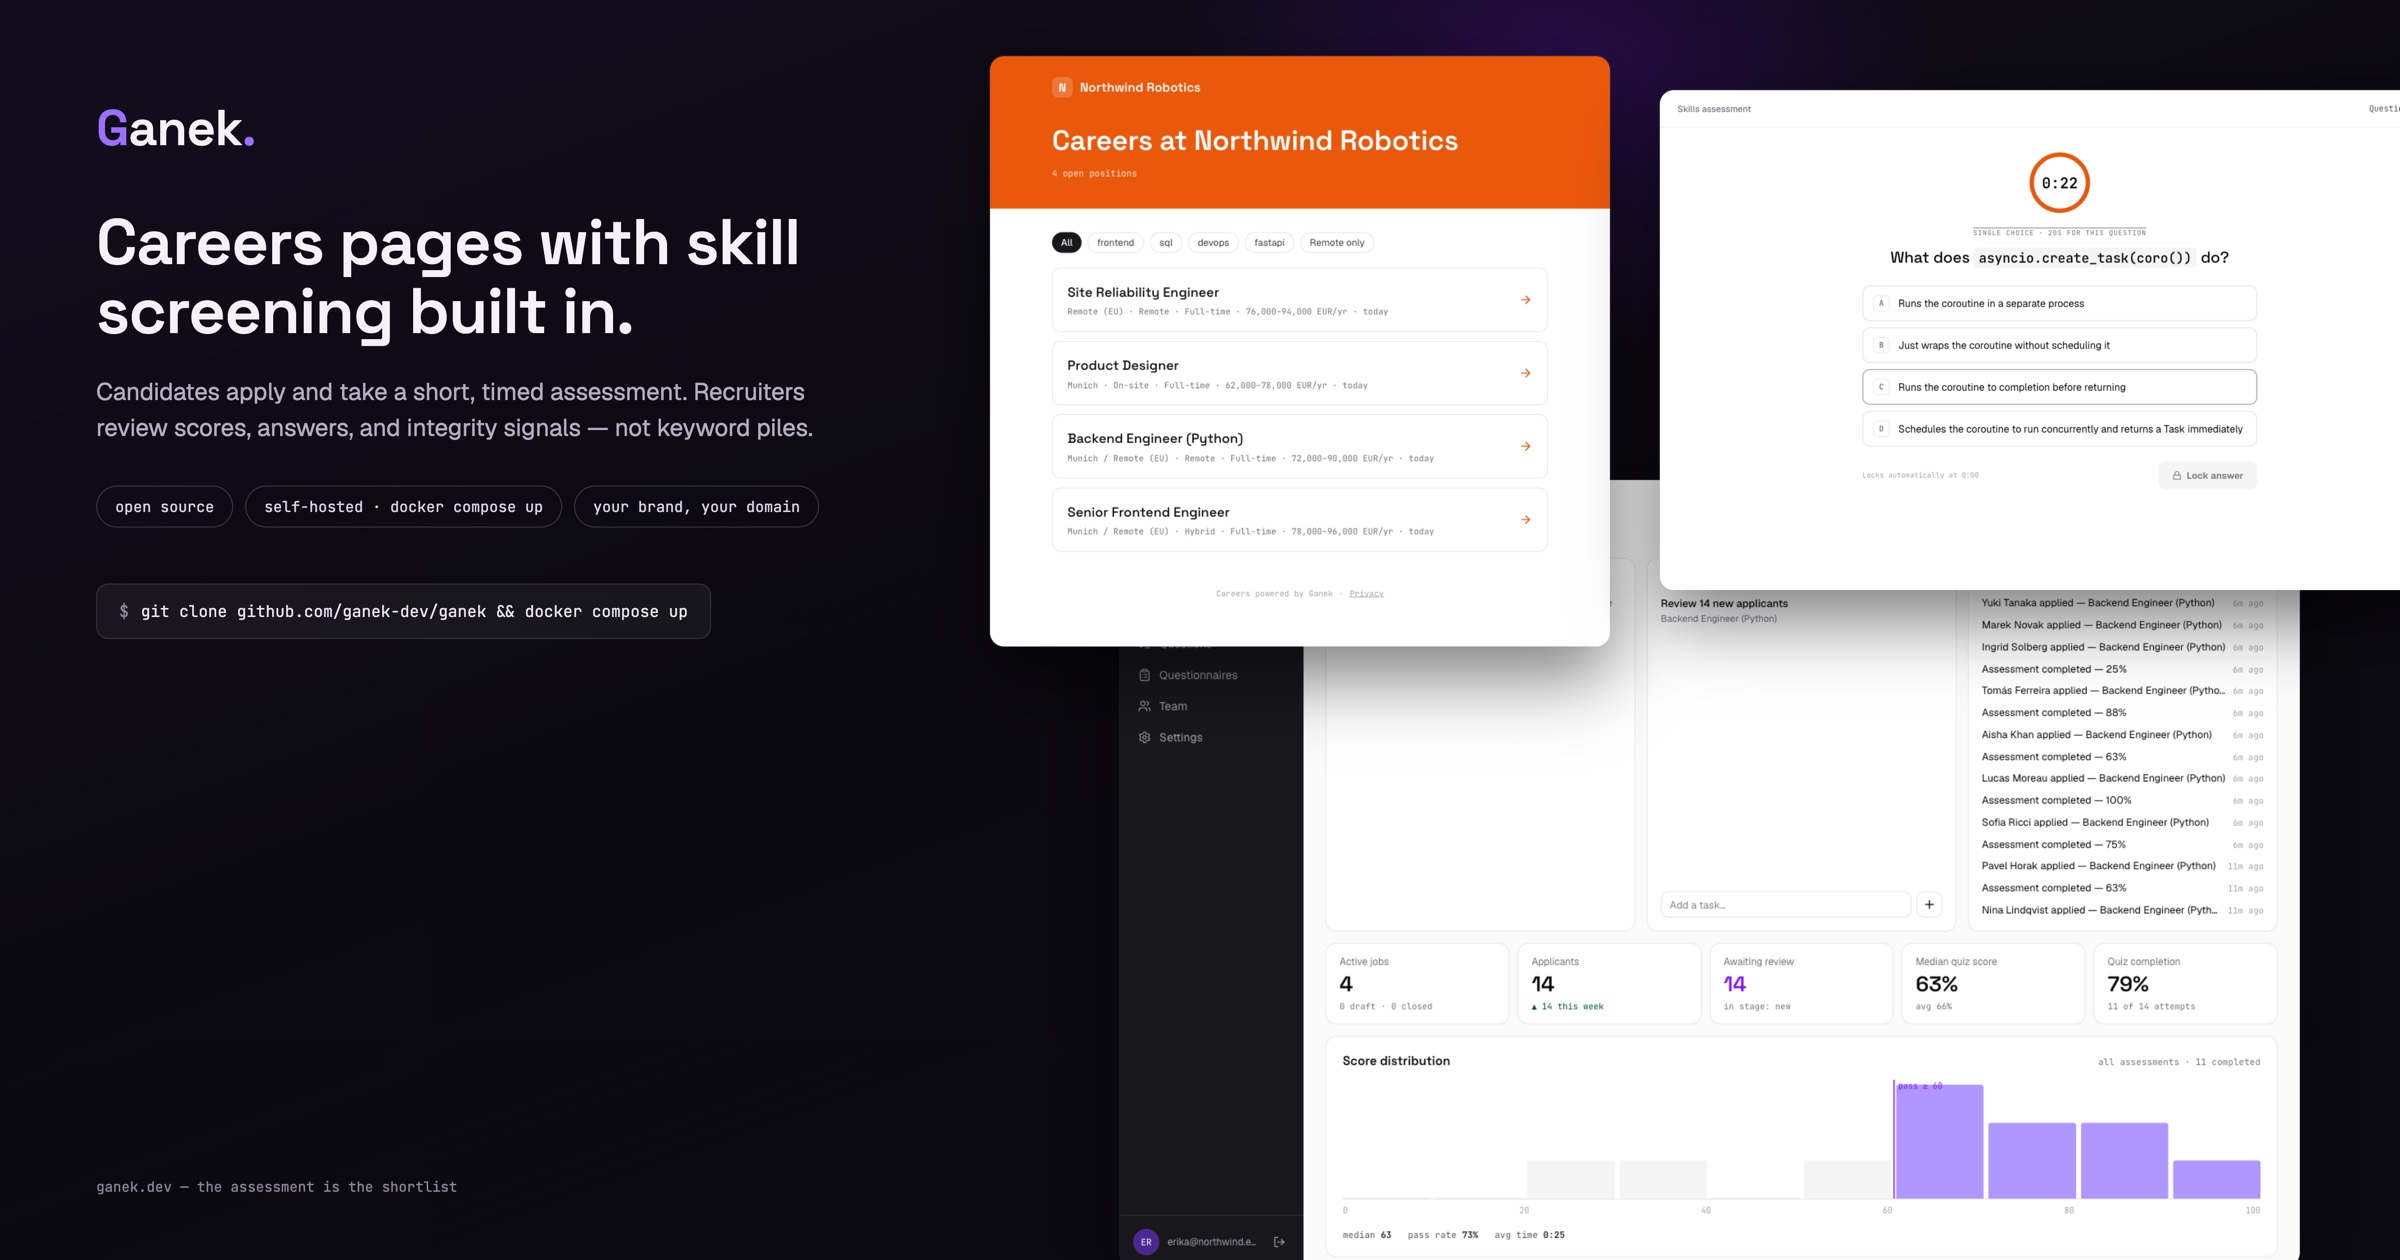
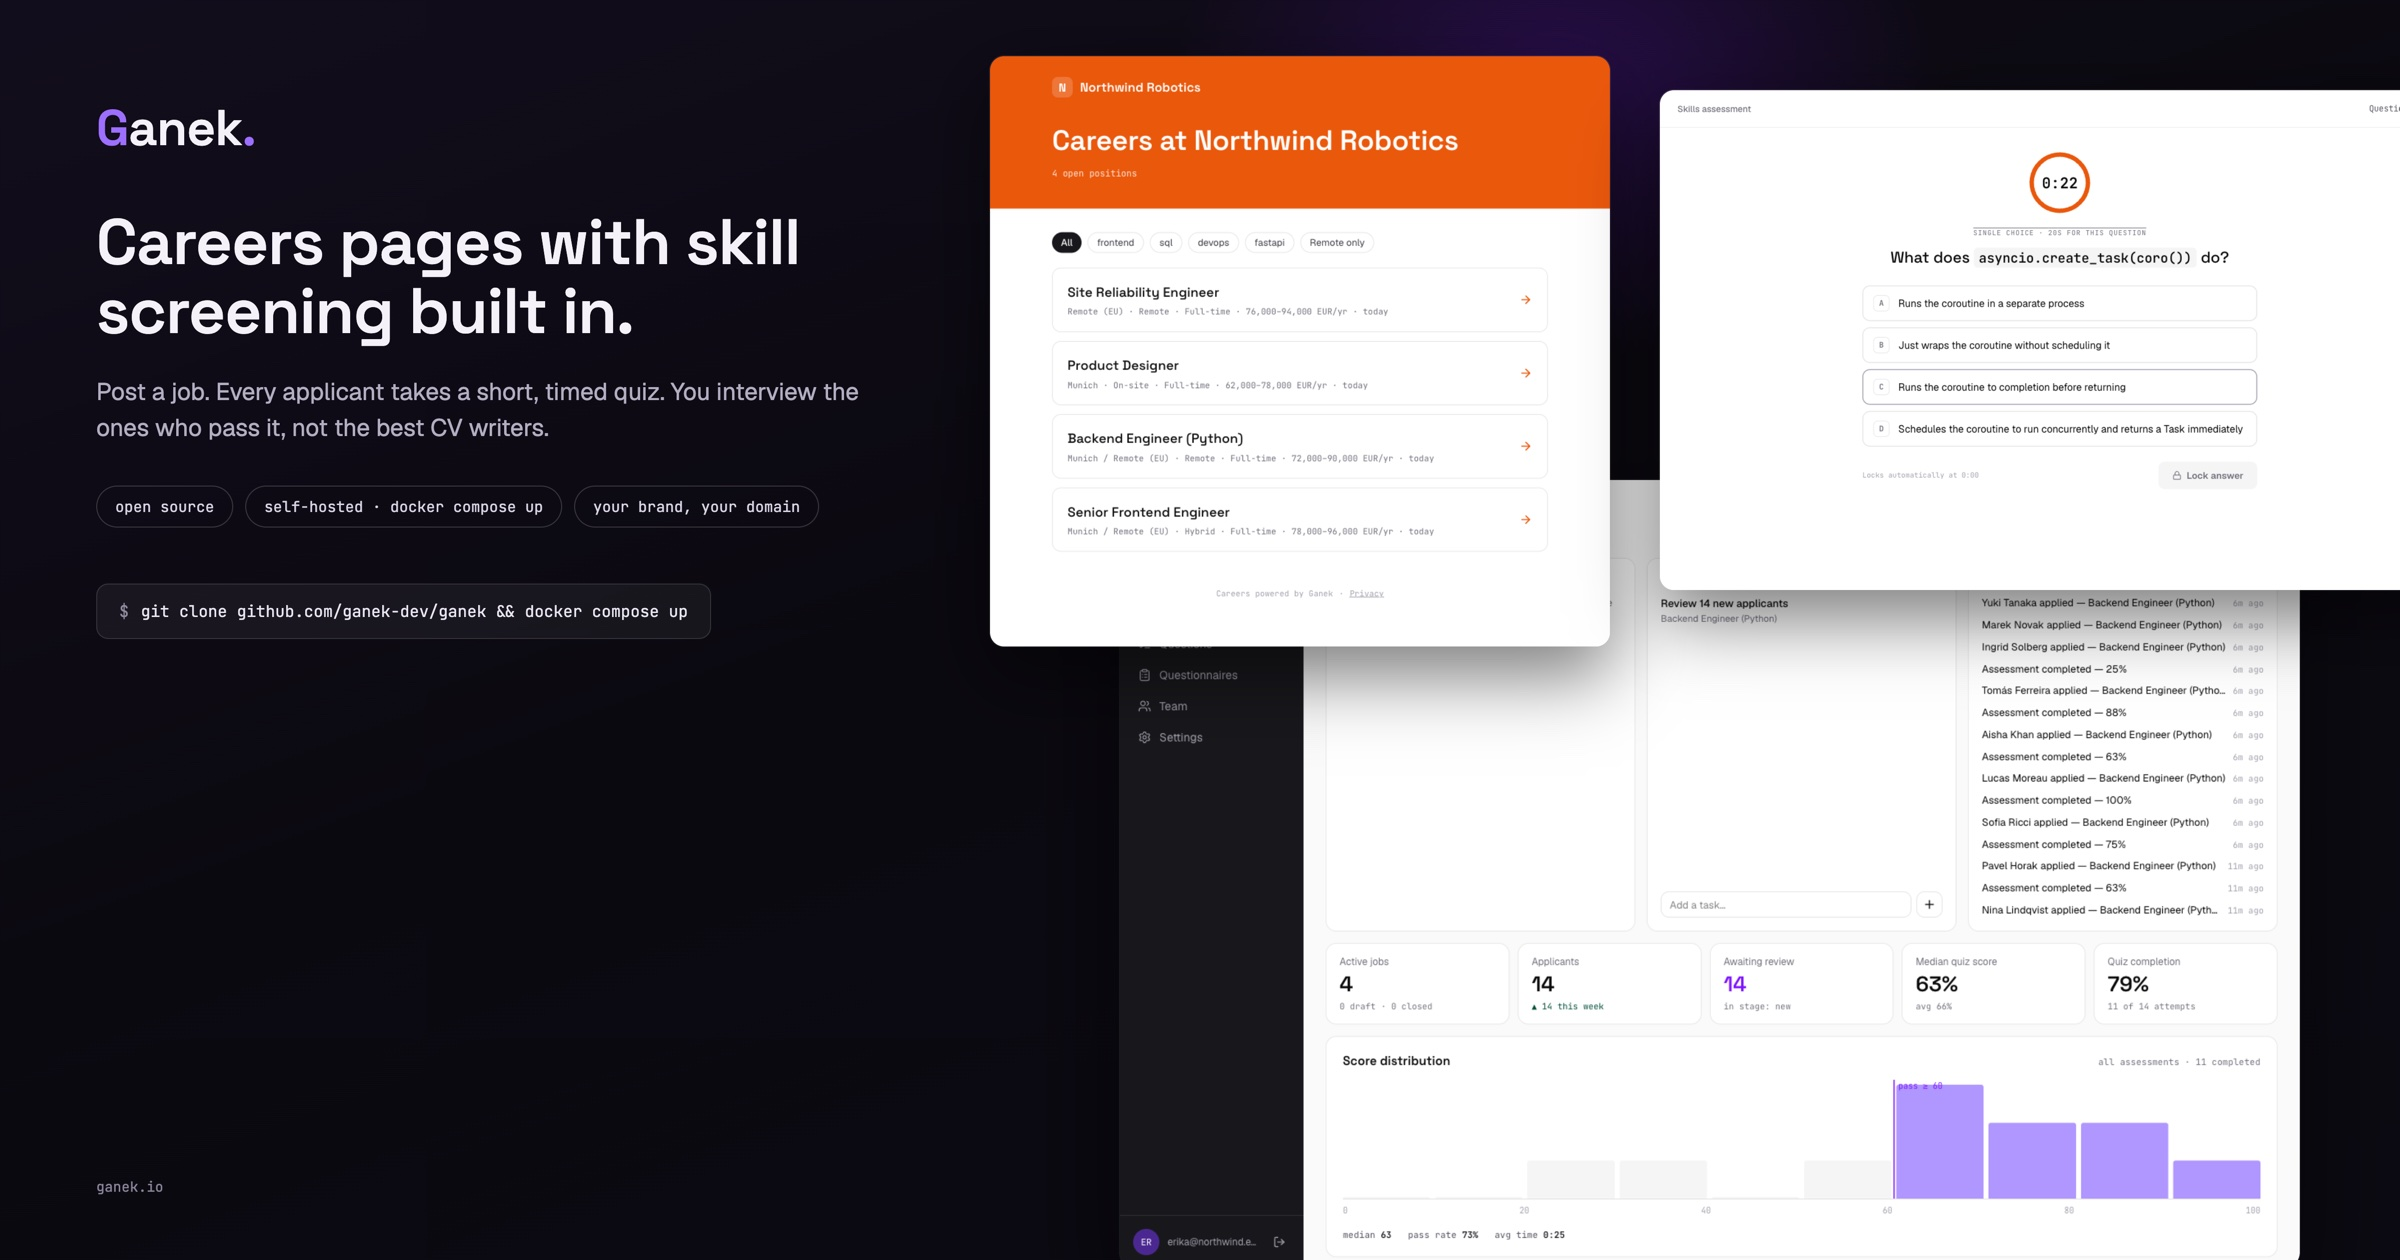
chore: ganek.io is the domain - copy + rasters
Owner decided everything lives under ganek.io (ganek.dev reserved for
future technical docs). README + compliance pack updated, README hero
and OG image re-rendered from the approved landing round-2 hero:
new subhead, waitlist-era copy, no motto line, ganek.io.

Claude-Session: https://claude.ai/code/session_01MXhCBwWDPqTWWCoKx4SCWh

Changed region(s): [[0.0312, 0.2786, 0.3438, 0.3714], [0.0938, 0.9286, 0.1875, 0.9595]]

diff --git a/README.md b/README.md
@@ -22,7 +22,7 @@ Ganek gives any company a branded careers page, job posting management, and appl
 - ⏱ Tag-matched screening quizzes: open question bank + your own private questions, per-job configuration, server-side timing and scoring, cheat-resistant by design
 - 📊 ATS-lite: pipeline stages, quiz scores with per-tag breakdown, integrity flags, notes
 - 🛡 GDPR-ready: per-company privacy notices, retention automation, erasure & DSAR tooling, no cookies or trackers on candidate pages — plus a [compliance pack](docs/compliance/README.md) with DPIA and records templates
-- 🐳 Self-host with one `docker compose up` — or use the hosted version at ganek.dev (coming later)
+- 🐳 Self-host with one `docker compose up` — or use the hosted version at ganek.io (coming later)
 - 🧩 Domain-agnostic engine: engineering first, any field via community question packs
 
 ## Quiz integrity, in short

diff --git a/docs/compliance/README.md b/docs/compliance/README.md
@@ -59,7 +59,7 @@ pack — at minimum redo the
 [telemetry LIA](telemetry-legitimate-interests.md) and the
 [AI Act statement](ai-act-statement.md), and revisit the DPIA's risk table.
 
-## Hosted ganek.dev
+## Hosted ganek.io
 
 The hosted service (when it launches) ships its own controller/processor
 pack: a data processing agreement, sub-processor list, and processor breach
